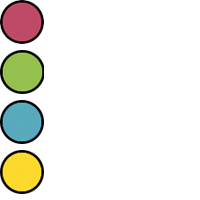
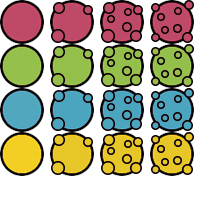
added bubbles popping, popping animation and droping orphaned bubbles

diff --git a/public/js/board.js b/public/js/board.js
@@ -20,6 +20,71 @@ BubbleShoot.Board = (function($){
 			bubble.setRow(rowNum);
 			bubble.setCol(colNum);
 		};
+		this.getBubbleAt = function(rowNum, colNum){
+			if(!this.getRows()[rowNum])
+				return null;
+			return this.getRows()[rowNum][colNum];
+		};
+		this.getBubblesAround = function(curRow, curCol){
+			var bubbles = [];
+			for(var rowNum = curRow - 1; rowNum <= curRow + 1; rowNum++){
+				for(var colNum = curCol - 2; colNum <= curCol + 2; colNum++){
+					var bubbleAt = that.getBubbleAt(rowNum, colNum);
+					if(bubbleAt && !(colNum == curCol && rowNum == curRow))
+						bubbles.push(bubbleAt);
+				}
+			}
+			return bubbles;
+		};
+		this.getGroup = function(bubble, found, differentColor){
+			var curRow = bubble.getRow();
+			if(!found[curRow])
+				found[curRow] = {};
+			if(!found.list)
+				found.list = [];
+			if(found[curRow][bubble.getCol()])
+				return found;
+			found[curRow][bubble.getCol()] = bubble;
+			found.list.push(bubble);
+			var curCol = bubble.getCol();
+			var surrounding = that.getBubblesAround(curRow, curCol);
+			for(var i = 0; i < surrounding.length; i++){
+				var bubbleAt = surrounding[i];
+				if(bubbleAt.getType() == bubble.getType() || differentColor)
+					found = that.getGroup(bubbleAt, found, differentColor);
+			}
+			return found;
+		};
+		this.popBubbleAt = function(rowNum, colNum){
+			var row = rows[rowNum];
+			delete row[colNum];
+		};
+		this.findOrphans = function(){
+			var connected = [];
+			var groups = [];
+			var rows = that.getRows();
+			for(var i = 0; i < rows.length; i++){
+				connected[i] = [];
+			}
+			for(var i = 0; i < rows[0].length; i++){
+				var bubble = that.getBubbleAt(0, i);
+				if(bubble && !connected[0][i]){
+					var group = that.getGroup(bubble, {}, true);
+					$.each(group.list, function(){
+						connected[this.getRow()][this.getCol()] = true;
+					});
+				}
+			}
+			var orphaned = [];
+			for(var i = 0; i < rows.length; i++){
+				for(var j = 0; j < rows[i].length; j++){
+					var bubble = that.getBubbleAt(i, j);
+					if(bubble && ! connected[i][j])
+						orphaned.push(bubble);
+				}
+			}
+			return orphaned;
+		};
 		return this;
 	};
 	var createLayout = function(){

diff --git a/public/js/game.js b/public/js/game.js
@@ -32,8 +32,15 @@ BubbleShoot.Game = (function($){
 			var collision = BubbleShoot.CollisionDetector.findIntersection(curBubble, board, angle);
 			if(collision){
 				var coords = collision.coords;
-				duration = Math.round(duration * collision.distToLocation / distance);
+				duration = Math.round(duration * collision.distToCollision / distance);
 				board.addBubble(curBubble, coords);
+				var group = board.getGroup(curBubble, {});
+				if(group.list.length >=3){
+					popBubbles(group.list, duration);
+					var orphans = board.findOrphans();
+					var delay = duration + 200 + 30 * group.list.length;
+					dropBubbles(orphans, delay);
+				}
 			}else{
 				var distX = Math.sin(angle) * distance;
 				var distY = Math.cos(angle) * distance;
@@ -45,6 +52,31 @@ BubbleShoot.Game = (function($){
 			}
 			BubbleShoot.ui.fireBubble(curBubble, coords, duration);
 			curBubble = getNextBubble();
+		};
+		var popBubbles = function(bubbles, delay){
+			$.each(bubbles, function(){
+				var bubble = this;
+				setTimeout(function(){
+					bubble.animatePop();
+				}, delay);
+				board.popBubbleAt(this.getRow(), this.getCol());
+				setTimeout(function(){
+					bubble.getSprite().remove();
+				}, delay + 200);
+				delay += 60;
+			});
+		};
+		var dropBubbles = function(bubbles, delay){
+			$.each(bubbles, function(){
+				var bubble = this;
+				board.popBubbleAt(bubble.getRow(), bubble.getCol());
+				setTimeout(function(){
+					//bubble.getSprite().animate({
+					//	top: 1000
+					//}, 1000);
+					bubble.getSprite().kaboom();
+				}, delay);
+			});
 		};
 	};
 	return Game;

diff --git a/public/js/jquery.kaboom.js b/public/js/jquery.kaboom.js
@@ -1,0 +1,44 @@
+(function(jQuery){
+	var defaults = {
+		gravity: 1.3,
+		maxY: 800
+	};
+	var toMove = [];
+	jQuery.fn.kaboom = function(settings){
+		var config = $.extend({}, defaults, settings);
+		if(toMove.length == 0)
+			setTimeout(moveAll, 40);
+		var dx = Math.round(Math.random() * 10) - 5;
+		var dy = Math.round(Math.random() * 5) + 5;
+		toMove.push({
+			elm: $(this),
+			dx: dx,
+			dy: dy,
+			x: $(this).position().left,
+			y: $(this).position().top,
+			config: config
+		});
+	};
+	var moveAll = function(){
+		var frameProportion = 1;
+		var stillToMove = [];
+		for(var i = 0; i < toMove.length; i++){
+			var obj = toMove[i];
+			obj.x += obj.dx * frameProportion;
+			obj.y -= obj.dy * frameProportion;
+			obj.dy -= obj.config.gravity * frameProportion;
+			if(obj.y < obj.config.maxY){
+				obj.elm.css({
+					top: Math.round(obj.y),
+					left: Math.round(obj.x)
+				});
+				stillToMove.push(obj);
+			}else if(obj.config.callback){
+				obj.config.callback();
+			}
+		}
+		toMove = stillToMove;
+		if(toMove.length > 0)
+			setTimeout(moveAll, 40);
+	};
+})(jQuery);

diff --git a/public/js/bubble.js b/public/js/bubble.js
@@ -15,6 +15,22 @@ BubbleShoot.Bubble = (function($){
 			};
 			return coords;
 		};
+		this.animatePop = function(){
+			var top = type * that.getSprite().height();
+			that.getSprite().css(/*Modernizr.prefixed("transform") */"transform", "rotate("+ (Math.random() * 360) + "deg)");
+			setTimeout(function(){
+				that.getSprite().css("background-position", "-50px -" + top + "px");
+			}, 125);
+			setTimeout(function(){
+				that.getSprite().css("background-position", "-100px -" + top + "px");
+			}, 150);
+			setTimeout(function(){
+				that.getSprite().css("background-position", "-150px -" + top + "px");
+			}, 175);
+			setTimeout(function(){
+				that.getSprite().remove();
+			}, 200);
+		};
 	};
 
 	Bubble.create = function(rowNum, colNum, type){

diff --git a/public/css/game.css b/public/css/game.css
@@ -15,13 +15,13 @@
 }
 
 .bubble_1{
-	background-position: 0 -50px;
+	background-position: 0 -44px;
 }
 
 .bubble_2{
-	background-position: 0 -100px;
+	background-position: 0 -88px;
 }
 
 .bubble_3{
-	background-position: 0 -150px;
+	background-position: 0 -132px;
 }

diff --git a/public/views/index.html b/public/views/index.html
@@ -20,6 +20,7 @@
         				Modernizr.load("js/query-1.8.2.min.js");
         		}
         	},
+            "js/jquery.kaboom.js",
         	"js/ui.js",
         	"js/bubble.js",
             "js/board.js",
